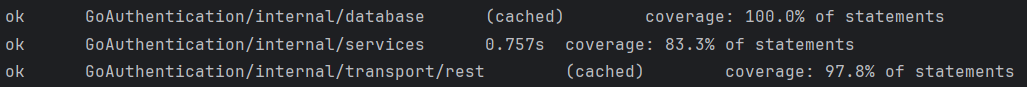
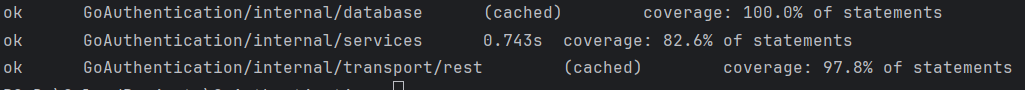
edit

diff --git a/internal/services/services.go b/internal/services/services.go
@@ -153,6 +153,9 @@ func (s *Service) Refresh(currentrefresh string, ipaddress string) (string, stri
 		_ = dialer.DialAndSend(message)
 	}
 	access, refresh, err := s.Generatetokens(guid, ipaddress, email)
+	if err != nil {
+		return "", "", err, http.StatusInternalServerError
+	}
 	if err = s.database.SetStatusTokenQuery(context.Background(), id, "used"); err != nil {
 		return "", "", err, http.StatusInternalServerError
 	}
